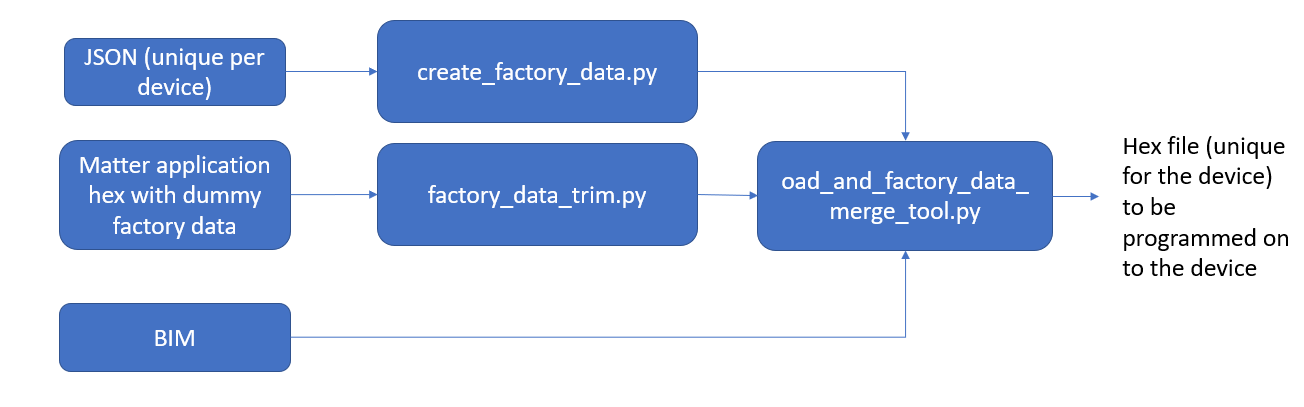
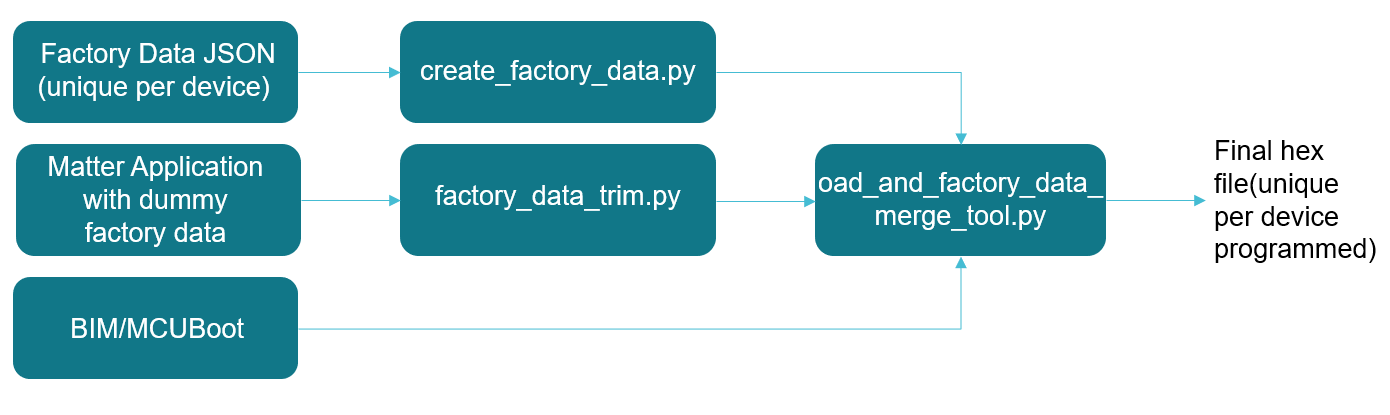
code review updates and cc13x2 em file fix

diff --git a/third_party/ti_simplelink_sdk/create_factory_data.py b/third_party/ti_simplelink_sdk/create_factory_data.py
@@ -1,3 +1,19 @@
+#!/usr/bin/env python
+
+# Copyright (c) 2022 Project CHIP Authors
+#
+# Licensed under the Apache License, Version 2.0 (the "License");
+# you may not use this file except in compliance with the License.
+# You may obtain a copy of the License at
+#
+# http://www.apache.org/licenses/LICENSE-2.0
+#
+# Unless required by applicable law or agreed to in writing, software
+# distributed under the License is distributed on an "AS IS" BASIS,
+# WITHOUT WARRANTIES OR CONDITIONS OF ANY KIND, either express or implied.
+# See the License for the specific language governing permissions and
+# limitations under the License.
+
 import argparse 
 import intelhex
 import json

diff --git a/src/platform/cc13xx_26xx/cc13x2_26x2/CHIPDevicePlatformConfig.h b/src/platform/cc13xx_26xx/cc13x2_26x2/CHIPDevicePlatformConfig.h
@@ -49,8 +49,8 @@
 
 // Per 5.2.5.2. Commencement Section of CHIP spec, BLE advertisement is
 // disabled for Locks and Barrier Access Devices.
-#define CHIP_DEVICE_CONFIG_CHIPOBLE_ENABLE_ADVERTISING_AUTOSTART 1
-#define CHIP_DEVICE_CONFIG_ENABLE_PAIRING_AUTOSTART 1
+#define CHIP_DEVICE_CONFIG_CHIPOBLE_ENABLE_ADVERTISING_AUTOSTART 0
+#define CHIP_DEVICE_CONFIG_ENABLE_PAIRING_AUTOSTART 0
 
 #define CHIP_DEVICE_CONFIG_ENABLE_THREAD_SRP_CLIENT 1
 #define CHIP_DEVICE_CONFIG_ENABLE_THREAD_DNS_CLIENT 1

diff --git a/src/platform/cc13xx_26xx/cc13x2_26x2/openthread-core-cc13x2_26x2-config.h b/src/platform/cc13xx_26xx/cc13x2_26x2/openthread-core-cc13x2_26x2-config.h
@@ -71,5 +71,3 @@
 #define OPENTHREAD_CONFIG_ENABLE_BUILTIN_MBEDTLS 0
 // TCP disabled until OpenThread has a GN/Ninja build for the tcplp library
 #define OPENTHREAD_CONFIG_TCP_ENABLE 0
-
-#define CONFIG_OPENTHREAD_MTD 1

diff --git a/docs/guides/ti/ti_factory_data_user_guide.md b/docs/guides/ti/ti_factory_data_user_guide.md
@@ -1,56 +1,53 @@
-Texas Instruments Inc. Matter: Factory Data Programming User Guide
+# Texas Instruments Matter Factory Data Programming User Guide
 
-Introduction:
-
-This document describes how to use Factory data programming feature for the
+This document describes how to use the factory data programming feature for
 Matter example applications from Texas Instruments.
 
 ## Background
 
-Matter specification lists various information elements that are programmed at
-factory. These values do not change and some are unique per device. This feature
-enables customers developing matter products on TI devices to program this data
+The Matter specification lists various information elements that are programmed at
+the factory. These values do not change and some are unique per device. This feature
+enables customers developing Matter products on TI devices to program this data
 and use this as a starting point towards developing their factory programming
 infrastructure for their Matter devices.
 
 ## Solution Overview:
 
-TI matter examples allow to use the factory data in the following two ways:
+TI Matter examples allow the use of factory data in the following two ways:
 
 -   **Example Out of Box Factory Data** : Use TI example DAC values to get
-    started. This is intended to be used when just starting with matter or
-    during the development until customer or product specific data is not
+    started. This is intended to be used when just starting with Matter or
+    during development until customer or product specific data is not
     required.
--   **Custom factory data** : Allows to configure custom factory data via a JSON
+-   **Custom factory data** : Allows users to configure custom factory data via a JSON
     file. The custom values are then processed by a script provided by TI and
-    merged with the matter application to create a binary that can be flashed on
-    to the devices.
+    merged with the Matter application to create a binary that can be flashed on
+    to devices.
 
 ### Solution Block Diagram
 
 ![Block Diagram](images/factory_data_overview.png)
 
-Below is the high level description of each element
+Each element is described in more detail below:
 
-1. JSON: This file is located at src/platform/cc13xx_26xx. Developer
-   would configure this per device. Elements in this file are from the
+1. Factory Data JSON: This file is located at src/platform/cc13xx_26xx. 
+   Developers can configure this per device. Elements in this file are from the
    specification.
-2. Matter application hex with dummy factory data is any TI's matter example
+2. Matter Application with dummy factory data: Any TI Matter example
    application
-3. BIM is the Boot image manager that allows to write and read/program the OTA
-   image received over the air for upgrade. This is built with the matter
-   application. This does not require additional build steps from developers.
-4. create_factory_data.py: processes JSON file and generates hex file with
-   unique factory data values configured in the JSON file.
-5. factory_data_trim.py: when using the custom factory data option, this script
+3. BIM/MCUBoot: Boot Image Manager/MCUBoot image used for OTA. This is built
+   with the Matter application and does not require additional build steps
+   from developers.
+4. create_factory_data.py: Processes a factory data JSON file and generates
+   a hex file with the unique factory data values configured in the JSON file.
+5. factory_data_trim.py: When using the custom factory data option, this script
    removes the dummy factory data which is required to be able to successfully
    compile the application.
-6. oad_and_factory_data_merge_tool.py: Merges the factory data hex, matter application without
-   factory data and bim to generate a functional hex that can be programmed on
-   to the device.
+6. oad_and_factory_data_merge_tool.py: Merges the factory data hex, Matter 
+   application without factory data and BIM/MCUBoot image to generate a 
+   functional hex that can be programmed onto the device.
 
-
-For CC13x4 devices, the only difference in the flow is that there is no BIM being merged with the application and factory data file. 
+ 
 ## Flash memory layout
 
 ![Memory Layout 1](images/cc13x2_memmap.png)
@@ -60,27 +57,58 @@ For CC13x4 devices, the only difference in the flow is that there is no BIM bein
 ## How to use
 
 Out of box factory data location is configured to be on second last page of
-flash. For CC13x2, the starting address is 0xAC000. For CC13x4, the starting address is 0xFE800.
-This can be configured in the linkercommand file.
+flash. For CC13x2, the starting address is 0xAC000. For CC13x4, the starting 
+address is 0xFE800. This can be configured in the linker file.
 
 To configure:
 
-1. Linker command file: Set the start address for factory data in the linker command file being used by the application
-   ![Linker snippet 1](images/ti_linker_factory_data_1.png)
-   ![Linker snippet 2](images/ti_linker_factory_data_2.png)
-
+1. Linker file: Set the start address for factory data in the linker file being
+   used by the application
+   
+```
+FLASH_FACTORY_DATA (R)  : ORIGIN = 0x000ac000, LENGTH = 0x00000900
+```
+```
+/* Define base address for the DAC arrays and struct */
+    PROVIDE (_factory_data_base_address =
+        DEFINED(_factory_data_base_address) ? _factory_data_base_address : 0xAC000);
+```
 2. create_factory_data.py: Set the address of the start of the factory data
    elements. Refer to the comments in the script.
-   ![Factory Data creation script 1](images/ti_factory_data_mem_address_script.png)
-   ![Factory Data creation script 2](images/ti_factory_data_mem_address_script_2.png)
 
-3. In the example's args.gni, set 'custom_factory_data' to true       
+
+```
+    # there are 17 elements, each element will need 8 bytes in the struct  
+    # 4 for length of the element, and 4 for the pointer to the element
+    # factory data starts at 0xAC000 or 0xFE800, so the elements will 
+    # start 136 bytes after the start address
+    factory_data_dict = json.load(args.factory_data_json_file[0])
+    factory_data_schema = json.load(args.factory_data_schema[0])
+   
+    validate(factory_data_dict, factory_data_schema)
+    factory_data = factory_data_dict['elements']
+
+    struct_idx = 0
+    values_idx = 0
+    if device_family == 'cc13x2_26x2':
+        value_address = 0xAC088
+    else:
+        value_address = 0xFE888
+```
+```
+    if device_family == 'cc13x2_26x2':
+        subprocess.call(['objcopy', 'temp.bin','--input-target','binary','--output-target', 'ihex', args.factory_data_hex_file, '--change-addresses=0xac000'])
+    else:
+        subprocess.call(['objcopy', 'temp.bin','--input-target','binary','--output-target', 'ihex', args.factory_data_hex_file, '--change-addresses=0xfe800'])
+```
+
+3. In the example's args.gni file, set 'custom_factory_data' to true       
               
 
 
 It is recommended to keep a dedicated page (2 pages for CC13x4) for factory data.
 
-### Formatting certs and keys
+### Formatting certs and keys for JSON file
 
 To format the DAC, private key and PAI as hex strings as shown in the Factory
 Data JSON file, use the chip-cert tool located at src/tools/chip-cert and run
@@ -96,5 +124,5 @@ The example application can be built using the instructions in the example's
 README. The factory data from the JSON file will be formatted into a hex file
 that will then be merged into the final executable. The final executable will be
 named _{example-application}-bim.hex_ for CC13x2 and 
-_{example-application}-and-factory-data.hex_ for CC13x4, and the factory data 
+_{example-application}-mcuboot.hex_ for CC13x4, and the factory data 
 that was inputted into the JSON file will be named _{example-application}-factory-data.hex_.
